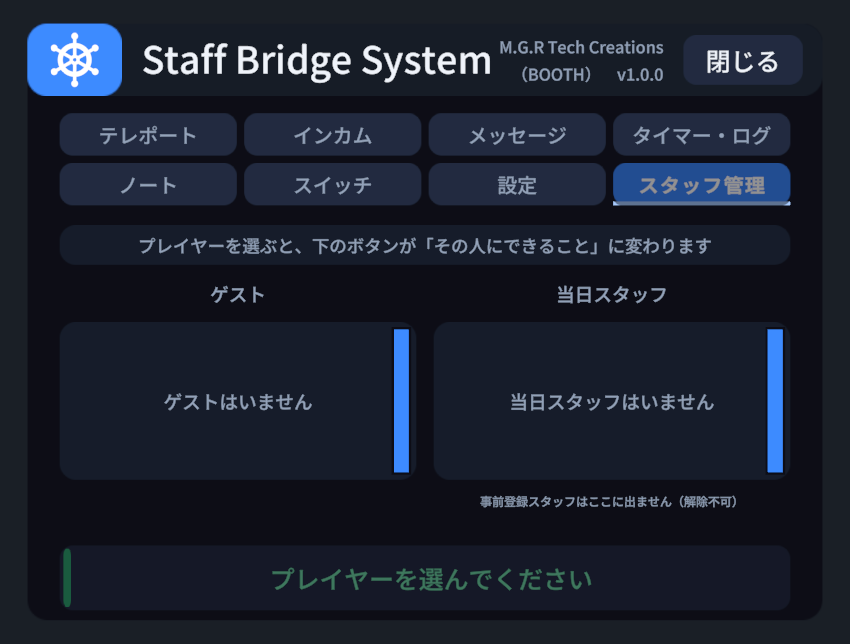
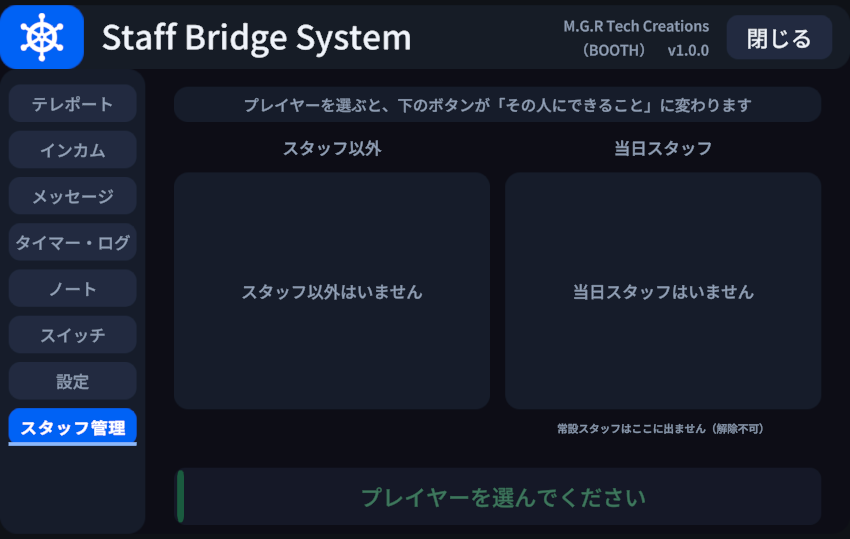
Staff Bridge System: マニュアルの画像を現行UIへ、欠けていた節を追加
画像がすべて旧UI（上段2段タブ・通知ログに右下・メガホンの行なし）だった
ので、メニューの11枚を現行UIで撮り直した。あわせて未収録だった画面を
追加した。

・受信ログのページ（menu-messagelog）
・宛先グループの所属選択（menu-message-groups）
・インカムの参加メンバー一覧（menu-incom-members）

usage.md に「宛先グループに入る」「受信ログを読み返す」の小節を起こし、
reference.md のメガホンへ VRジェスチャーを使う を追加、手が固定である
ことと設定の所在を明記した。

diff --git a/docs/staff-bridge-system/reference.md b/docs/staff-bridge-system/reference.md
@@ -103,14 +103,17 @@
 
 ## StaffMegaphone（メガホン） { #megaphone }
 
-長押ししている間だけ、スタッフ以外を含む全員へ声を届けます。インカムのチャンネル機構の外を通るため、無線とは競合しません。
+拡声している間だけ、スタッフ以外を含む全員へ声を届けます。インカムのチャンネル機構の外を通るため、無線とは競合しません。
 
 | 項目 | 型 | 既定 | 内容 |
 |---|---|---|---|
 | 起動長押し秒 | float | 0.5 | ボタンを押し続けてから拡声が始まるまでの秒数（誤タップ防止） |
 | 最大使用秒 | float | 180 | 連続使用がこの秒数を超えたら強制的に切る保険 |
+| VRジェスチャーを使う | bool | ON | 左手を無線と同じ位置へ近づけてトリガーを引くと拡声する。OFF にするとボタンと Desktop キーだけになる |
 
 無線との相互排他、スタッフでなくなったときの即時停止、使用中のステータス表示は常に有効で、設定項目はありません。
+
+ボタンの方式（長押し／トグル）と Desktop キーは各自が[設定タブ](usage.md#settings)で選びます。初期値は [StaffTalkSettings](#talk-settings) が持ちます。ジェスチャーの位置（耳／肩／胸元）と判定半径は[インカム](#incom)側の設定を共通で使い、手は無線＝右・メガホン＝左で固定です。
 
 ---
 
@@ -279,7 +282,7 @@ GameObject の出し入れなら、同梱の [StaffObjectToggle](#object-toggle)
 | 操作音の初期値 | float | 0.5 | スライダーの初期位置 |
 | 通知音の初期値 | float | 0.5 | スライダーの初期位置 |
 
-### StaffTalkSettings（発話方式）
+### StaffTalkSettings（発話方式） { #talk-settings }
 
 | 項目 | 型 | 既定 | 内容 |
 |---|---|---|---|

diff --git a/docs/staff-bridge-system/features.md b/docs/staff-bridge-system/features.md
@@ -14,7 +14,7 @@
 | 一斉メッセージ | 全スタッフ、宛先グループ、選んだスタッフへ定型文を送る。グループと個人はまとめて選べ、複数に当てはまる人にも1通だけ届く | [使い方](usage.md#broadcast) / [設定](reference.md#broadcast) |
 | タイマー | 全員に見える共有タイマーと、自分だけのタイマー・ストップウォッチ | [使い方](usage.md#timer) / [設定](reference.md#timer) |
 | 入退室ログ | 誰がいつ入って出たかの記録 | [使い方](usage.md#timer) / [設定](reference.md#join-log) |
-| ノート | 進行台本の閲覧と、自分だけの走り書きメモ | [使い方](usage.md#note) / [設定](reference.md#cue) |
+| ノート | 進行台本の閲覧と、自分だけの走り書きメモ。1ページを視界の右下に出しておける | [使い方](usage.md#note) / [設定](reference.md#cue) |
 | スイッチ | 手元からワールド内のギミックへイベントを送る | [使い方](usage.md#switch) / [設定](reference.md#trigger) |
 | 通知ログ | 受信・タイマーの時間切れ・人の出入りを、視界の隅の1本のログにまとめて流す | [使い方](usage.md#notice-log) / [設定](reference.md#notice-log) |
 | スタッフ管理 | 在室者を当日スタッフにする／当日スタッフを外す。常設スタッフだけに出るタブ | [使い方](usage.md#staff-manage) / [設定](reference.md#grant-panel) |
